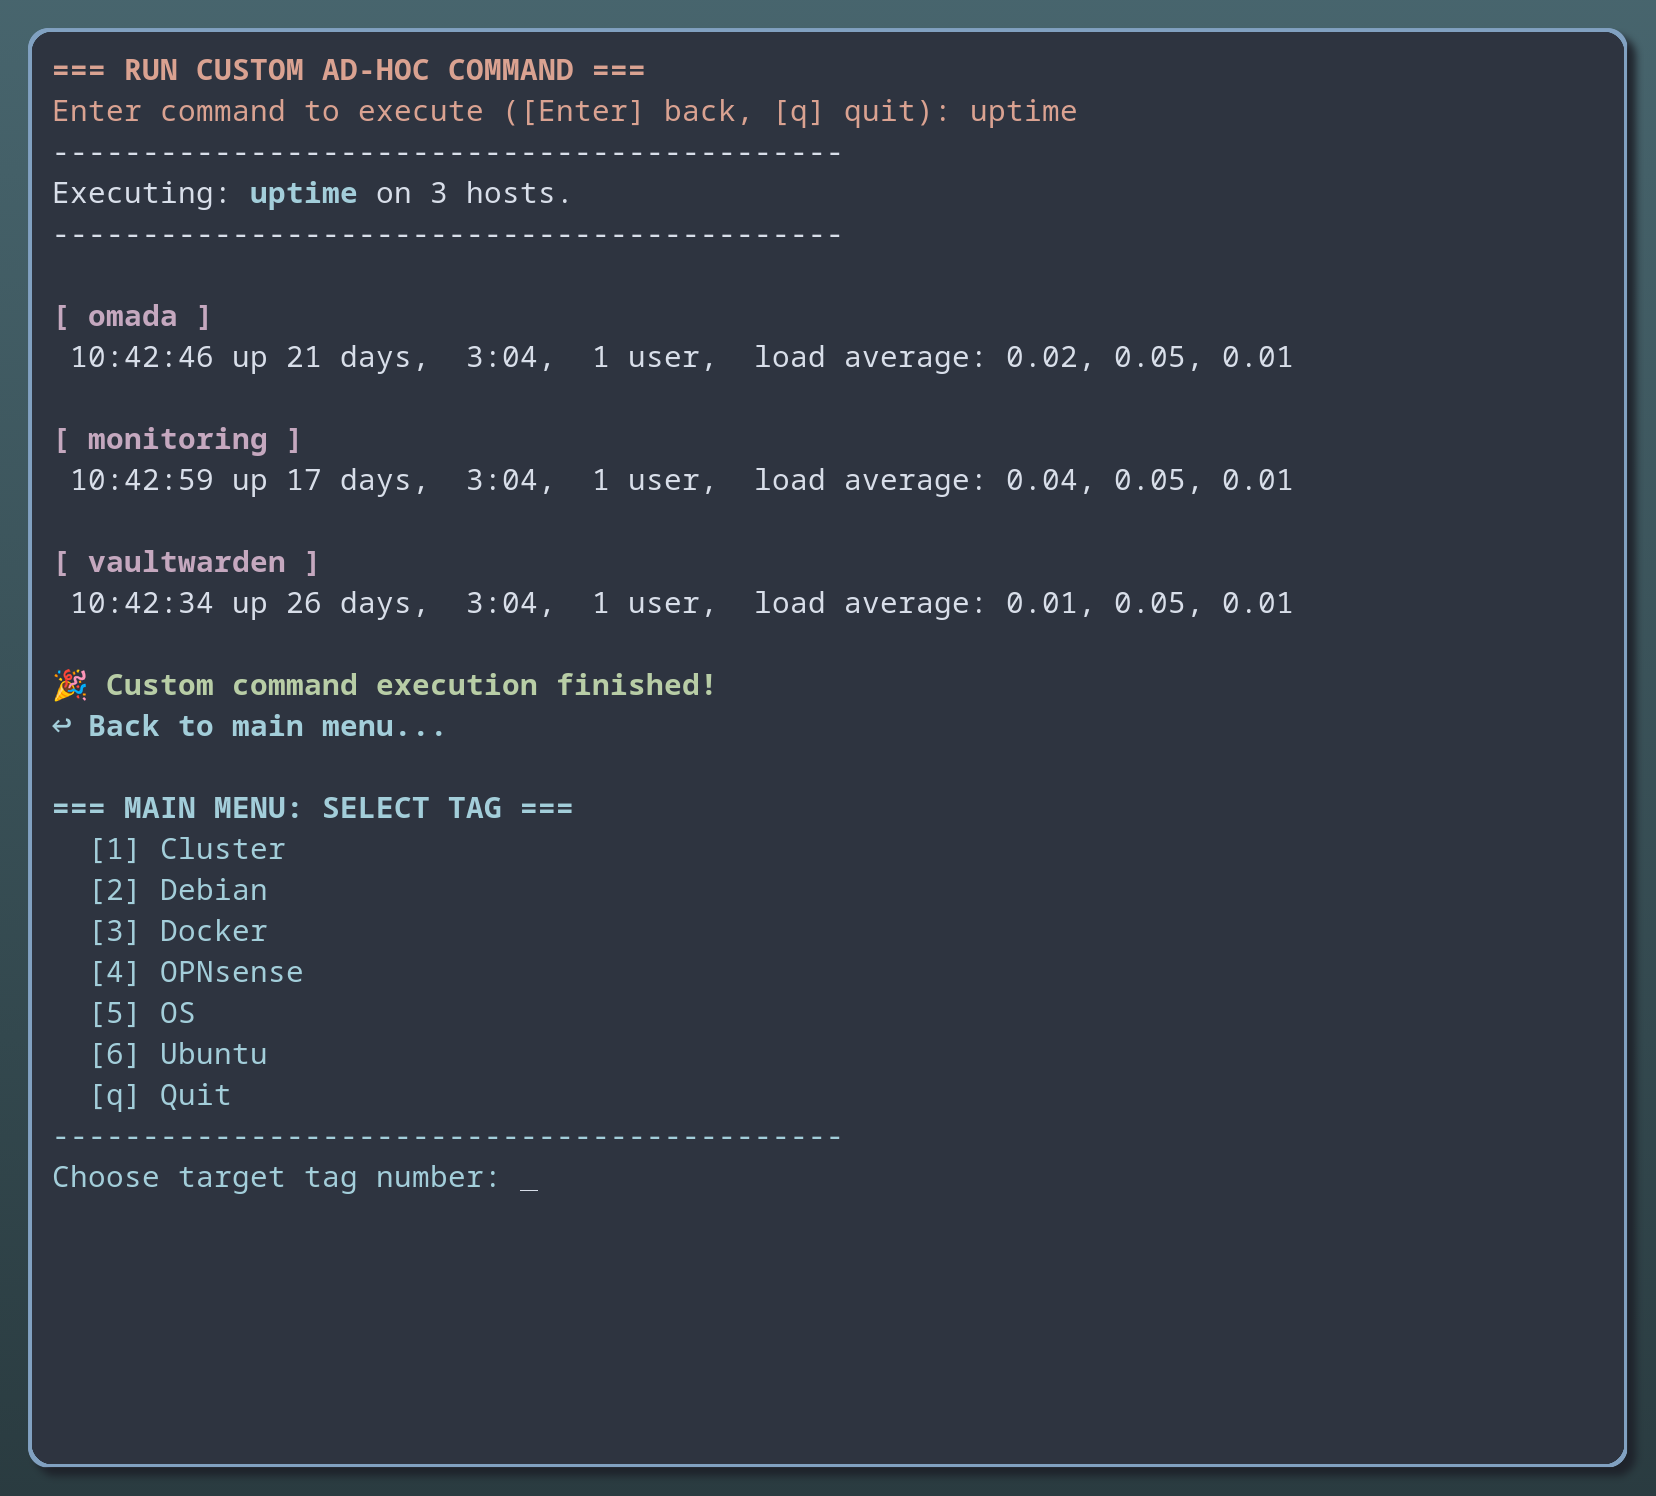
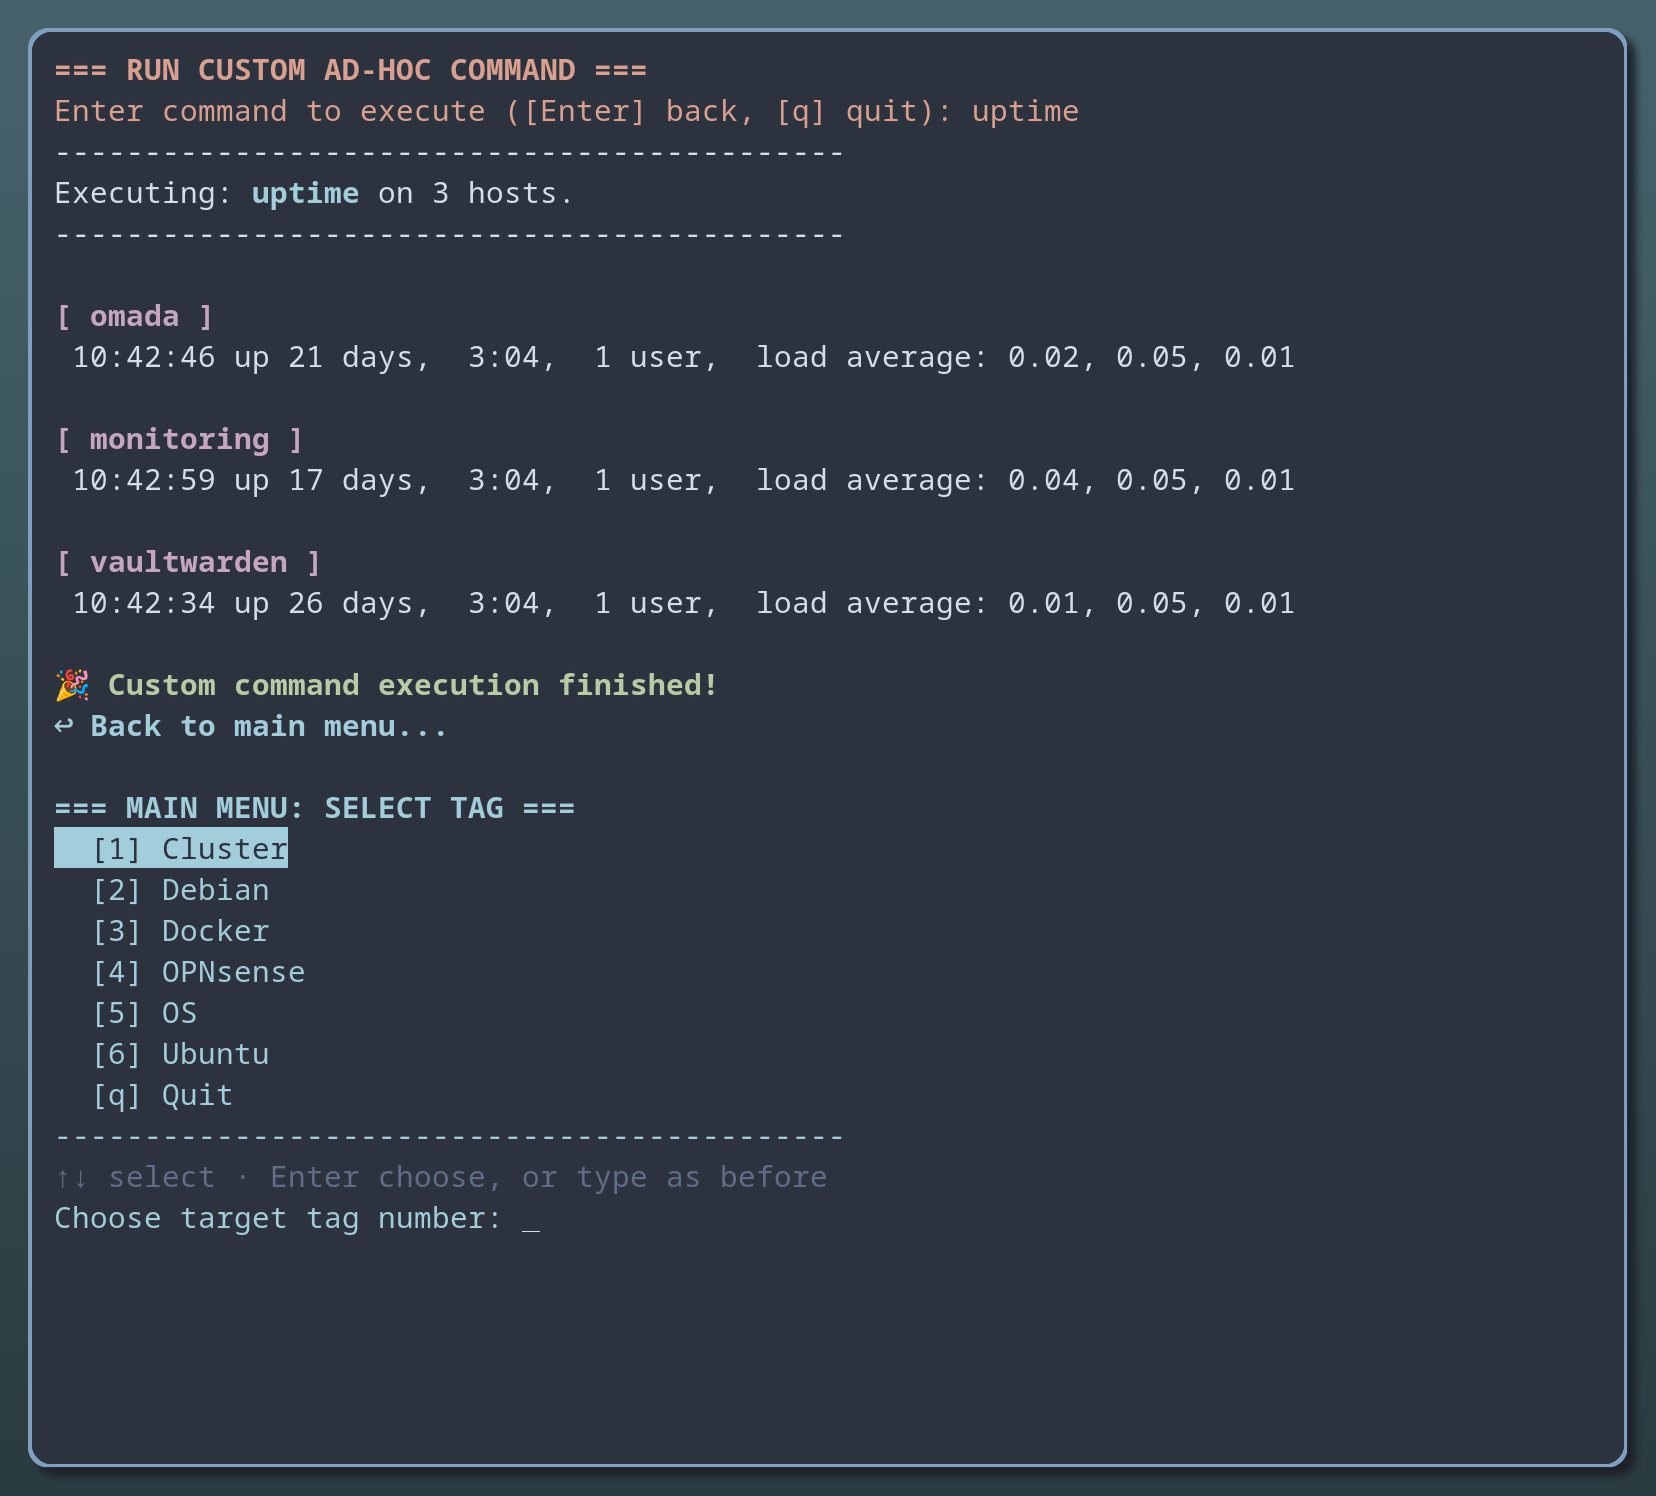
Menu screenshots as GIFs (arrows, Space), other pictures with the new menus; README and helper notes mention pick

diff --git a/README.md b/README.md
@@ -86,7 +86,7 @@ your-repo/
 
 The `ACTIONS` list near the end of `homelab` has one `"Label|script.sh"` line per menu entry, in menu order.
 A script in `homelab-actions/` gets the chosen hosts in `$TARGET_HOSTS`; `libs/lib_check_host.sh` has the
-helpers (`check_host_alive`, `confirm_next`) and the exit codes that send you back to a menu.
+helpers (`check_host_alive`, `confirm_next`, `pick` for a menu) and the exit codes that send you back to a menu.
 
 ## Pictures
 
@@ -94,10 +94,10 @@ Made with a demo setup: the real scripts and menus, the servers' answers are mad
 
 <!-- HTML, so both columns are half the width whatever the captions -->
 <table>
-<tr><td width="50%"><img src="screenshots/main-menu.png" alt="Main menu"></td><td width="50%"><img src="screenshots/host-menu.png" alt="Host menu"></td></tr>
-<tr><td>Main menu: the tags from <code>~/.ssh/config</code></td><td>Hosts with the tag Debian</td></tr>
-<tr><td width="50%"><img src="screenshots/action-menu.png" alt="Action menu"></td><td width="50%"><img src="screenshots/docker-stacks.png" alt="Docker stacks"></td></tr>
-<tr><td>Actions for the chosen host</td><td>Docker: the stacks found on the host</td></tr>
+<tr><td width="50%"><img src="screenshots/main-menu.gif" alt="Main menu"></td><td width="50%"><img src="screenshots/host-menu.gif" alt="Host menu"></td></tr>
+<tr><td>Main menu: the tags from <code>~/.ssh/config</code>, ↑/↓ moves the highlight</td><td>Hosts with the tag Debian, Space marks several</td></tr>
+<tr><td width="50%"><img src="screenshots/action-menu.gif" alt="Action menu"></td><td width="50%"><img src="screenshots/docker-stacks.gif" alt="Docker stacks"></td></tr>
+<tr><td>Actions for the chosen host</td><td>Docker: the stacks found on the host, Space marks several</td></tr>
 <tr><td width="50%"><img src="screenshots/docker-update.png" alt="Docker update"></td><td width="50%"><img src="screenshots/os-update.png" alt="System update"></td></tr>
 <tr><td>One stack updated, old images pruned</td><td>System update</td></tr>
 <tr><td width="50%"><img src="screenshots/custom-command.png" alt="Custom command"></td><td width="50%"><img src="screenshots/unreachable.gif" alt="Unreachable host"></td></tr>
